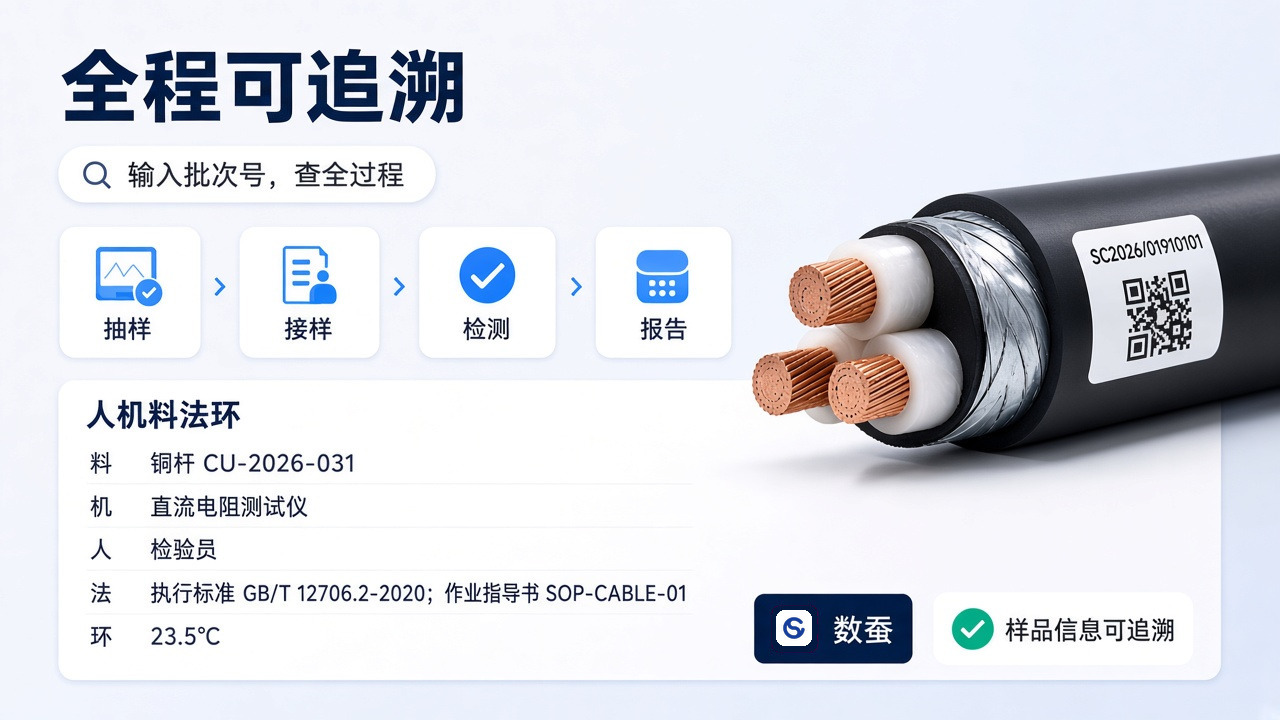
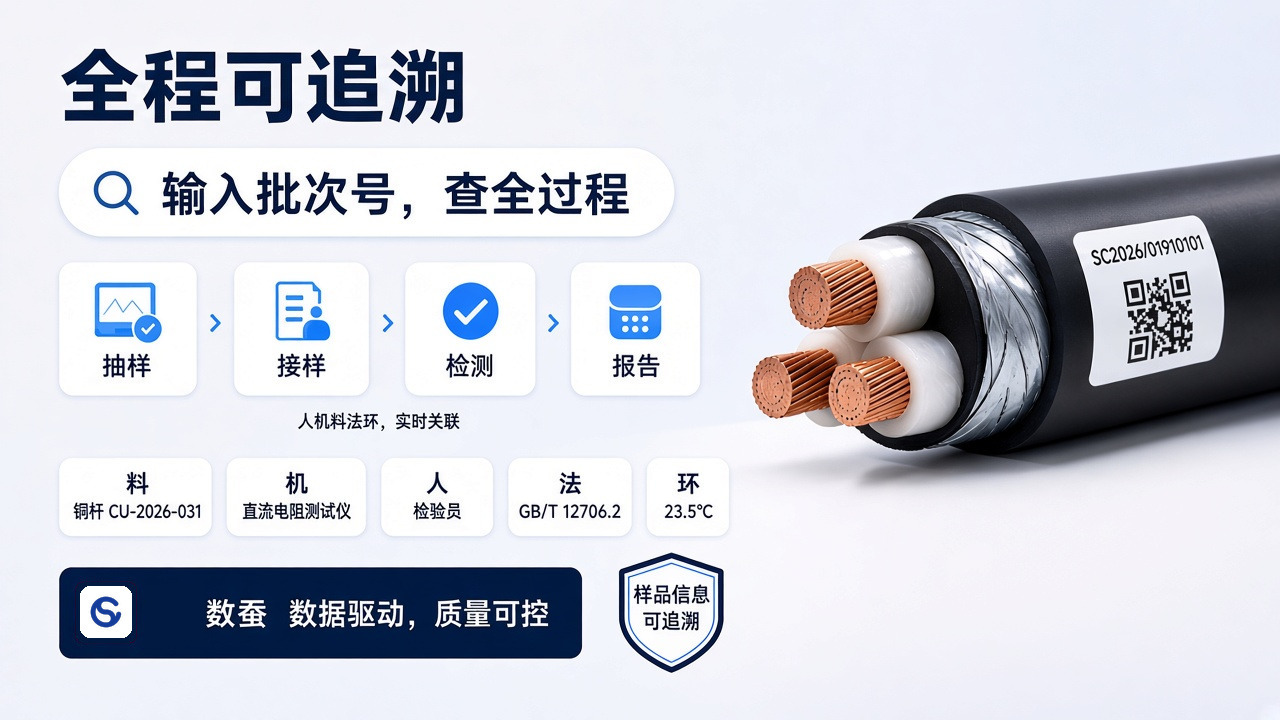
feat: 优势4配图改成卡片式追溯
批次号搜索仍是重心，人机料法环改为实时关联卡片，数蚕旁加上数据驱动、质量可控，样品可追溯改为盾牌标识。

diff --git a/shucan-lims-brochure.html b/shucan-lims-brochure.html
@@ -399,7 +399,7 @@
             </ul>
           </div>
           <div class="visual">
-            <img class="illu" src="assets/brochure/15-trace.jpg?v=fa" alt="输入批次号可追溯抽样、接样、检测和报告，人机料法环含执行标准 GB/T 12706.2-2020" />
+            <img class="illu" src="assets/brochure/15-trace.jpg?v=cards" alt="输入批次号查全过程，人机料法环以卡片实时关联，数蚕：数据驱动，质量可控" />
             <p class="cap">批次号或条码可追到原料、设备、人员和温度。</p>
           </div>
         </article>
